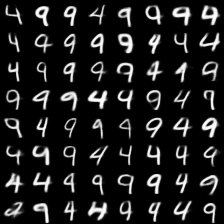
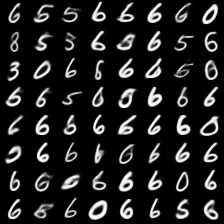
初始版本

Changed region(s): [[0.0, 0.0, 0.625, 1.0], [0.625, 0.0, 1.0, 1.0], [0.2812, 0.0, 0.375, 0.375]]

diff --git a/vae_keras.py b/vae_keras.py
@@ -17,11 +17,11 @@ from sklearn.metrics import normalized_mutual_info_score, adjusted_rand_score
 
 
 batch_size = 100
-latent_dim = 18
-epochs = 60
+latent_dim = 20
+epochs = 100
 num_classes = 10
 img_dim = 28
-filters = 18
+filters = 20
 intermediate_dim = 256
 
 # 加载MNIST数据集
@@ -207,8 +207,15 @@ train_metrics = evaluate_clustering(x_train_encoded, y_train_, y_train_pred)
 print("\n测试集评估:")
 test_metrics = evaluate_clustering(x_test_encoded, y_test_, y_test_pred)
 
-# x_test_encoded_3d = encoder.predict(x_test)[:, :3]  # 只取前三个维度用于可视化
+# # 3维展示
+# from sklearn.decomposition import PCA  # 添加PCA导入
+# # 获取编码后的潜在空间表示
+# x_test_encoded = encoder.predict(x_test)
+# # 使用PCA降到3维
+# pca = PCA(n_components=3)
+# x_test_encoded_3d = pca.fit_transform(x_test_encoded)
 # plot_latent_space_3d_interactive(x_test_encoded_3d, y_test_, title='Test Latent Space 3D')
+
 # 二维展示
 from sklearn.decomposition import PCA  # 添加PCA导入
 # 获取编码后的潜在空间表示
